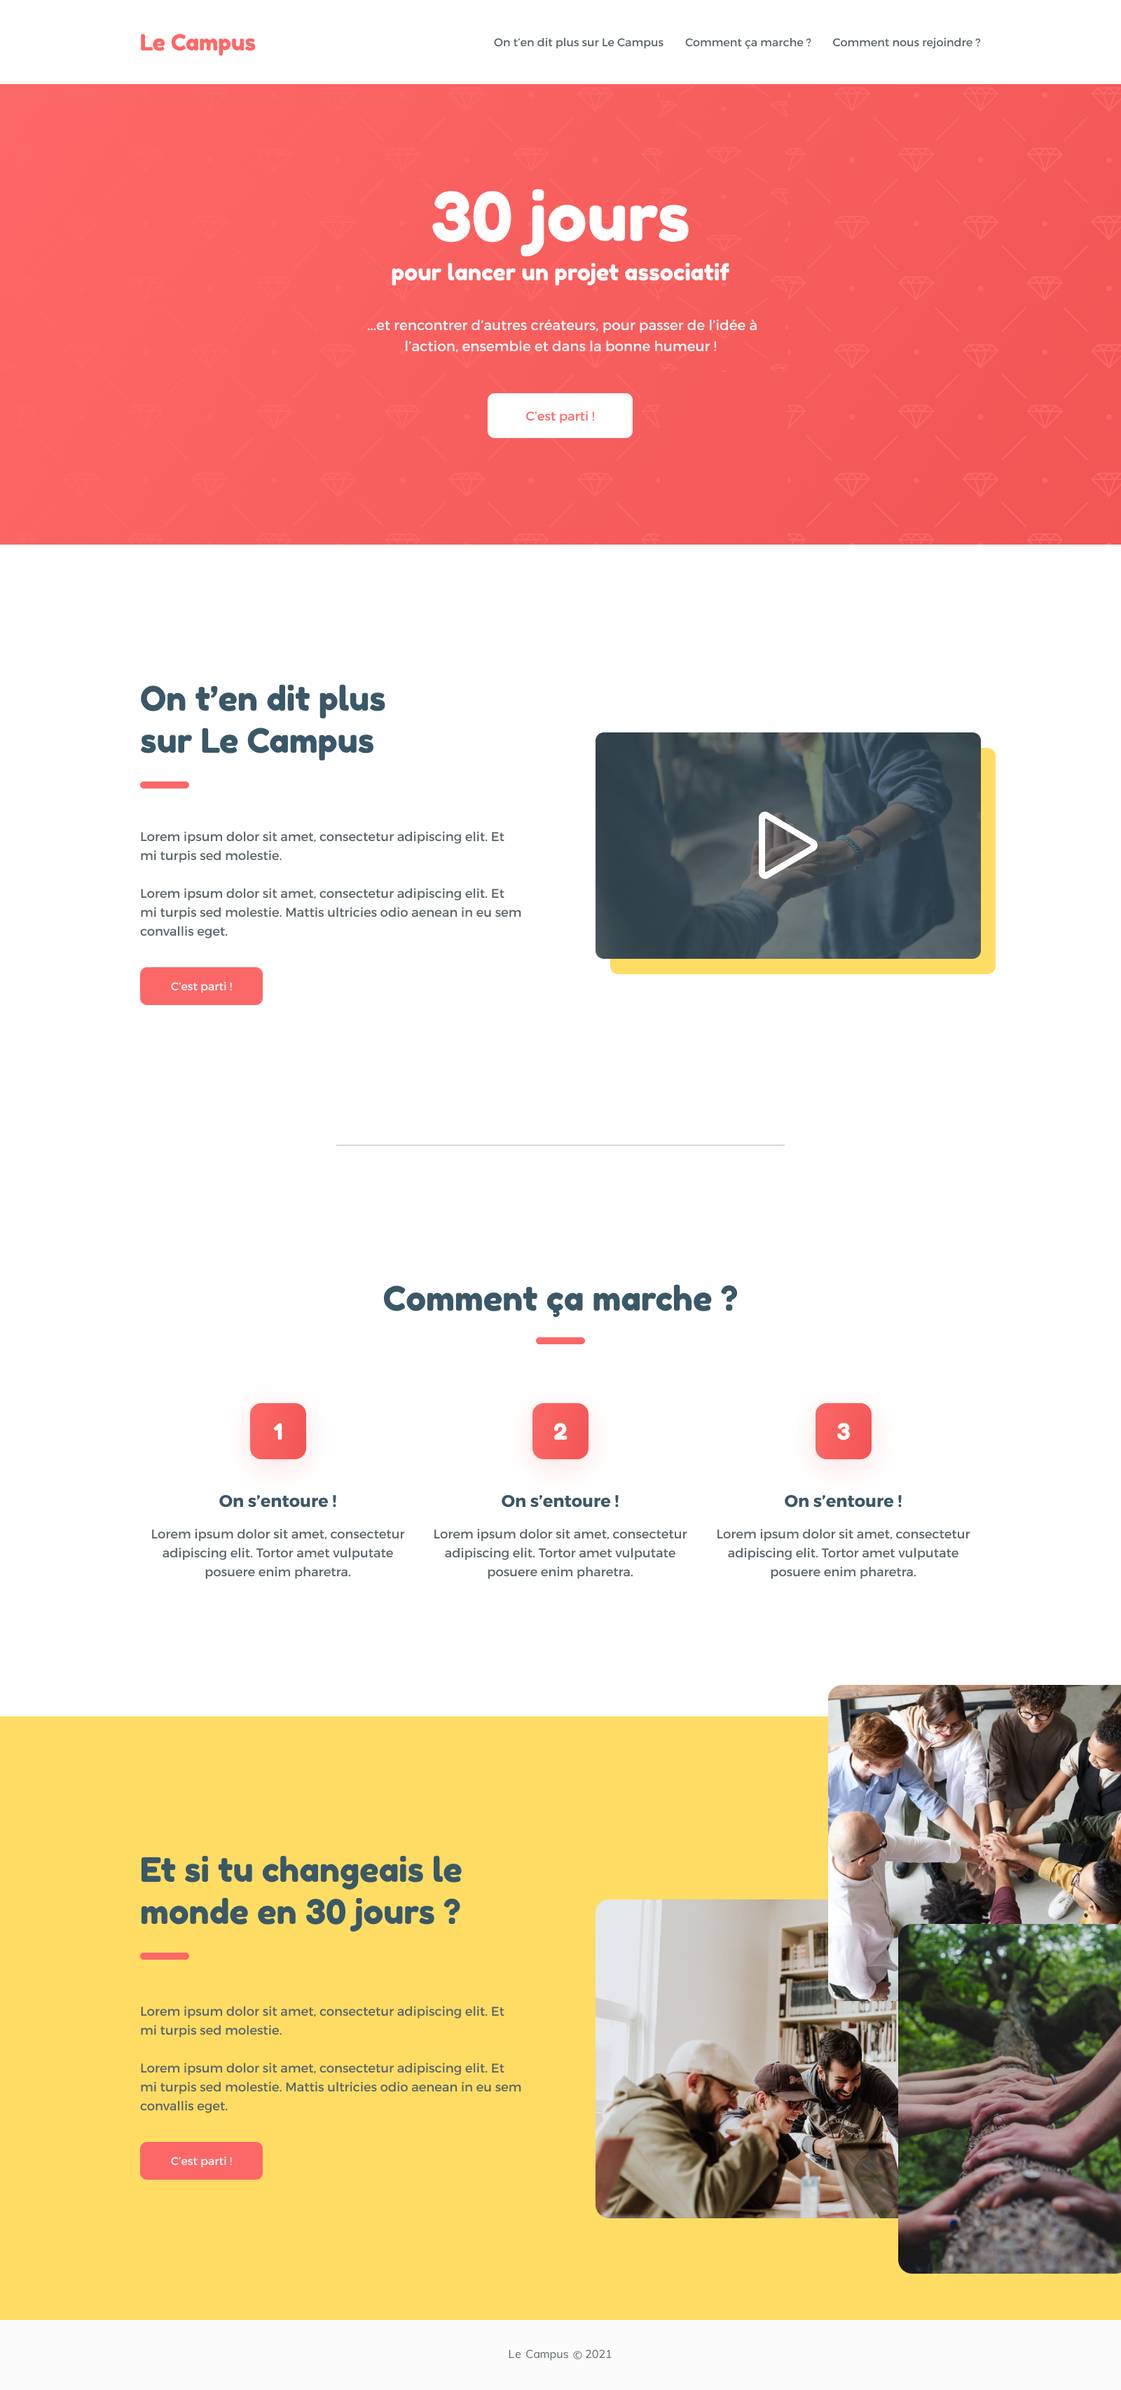
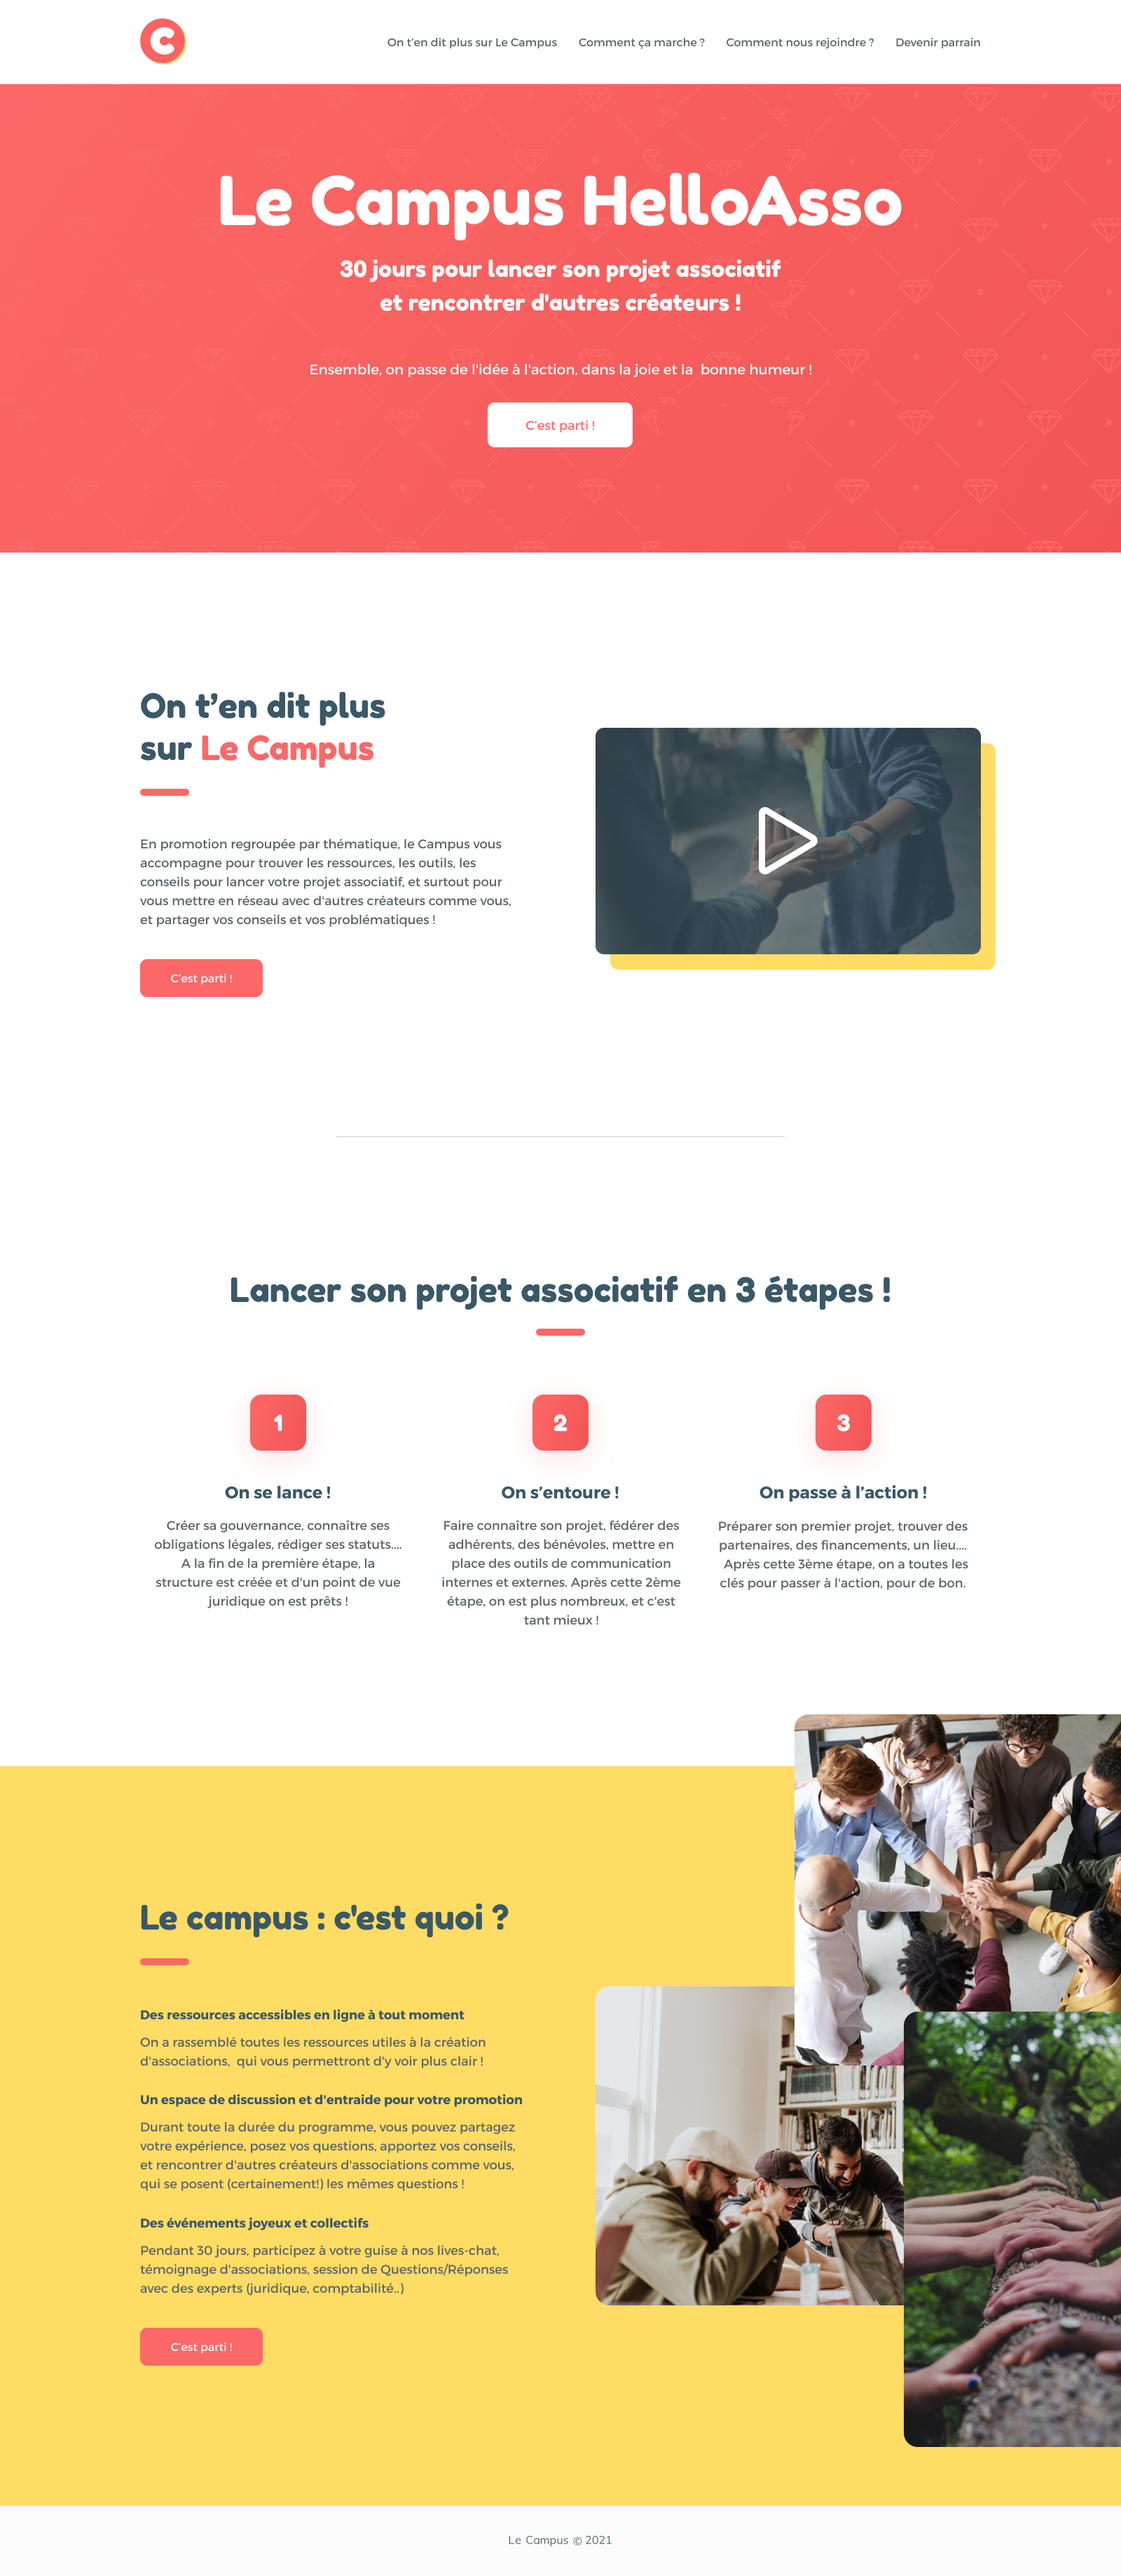
new home version

diff --git a/pages/index.vue b/pages/index.vue
@@ -24,14 +24,14 @@ export default {
 
 <style>
 #container {
-  height: 3410px;
+  height: 3674px;
   background: url(../static/background.png) no-repeat top center;
   background-size: 100%;
 }
 
 .btn1 {
   position: absolute;
-  top: 556px;
+  top: 569px;
   left: 708px;
   background: white;
   color: #fc6867;

diff --git a/pages/step1.vue b/pages/step1.vue
@@ -24,7 +24,7 @@ export default {
 
 <style>
 #container2 {
-  height: 1700px;
+  height: 1747px;
   background: url(../static/background-step1.png) no-repeat top center;
   background-size: 100%;
 }
